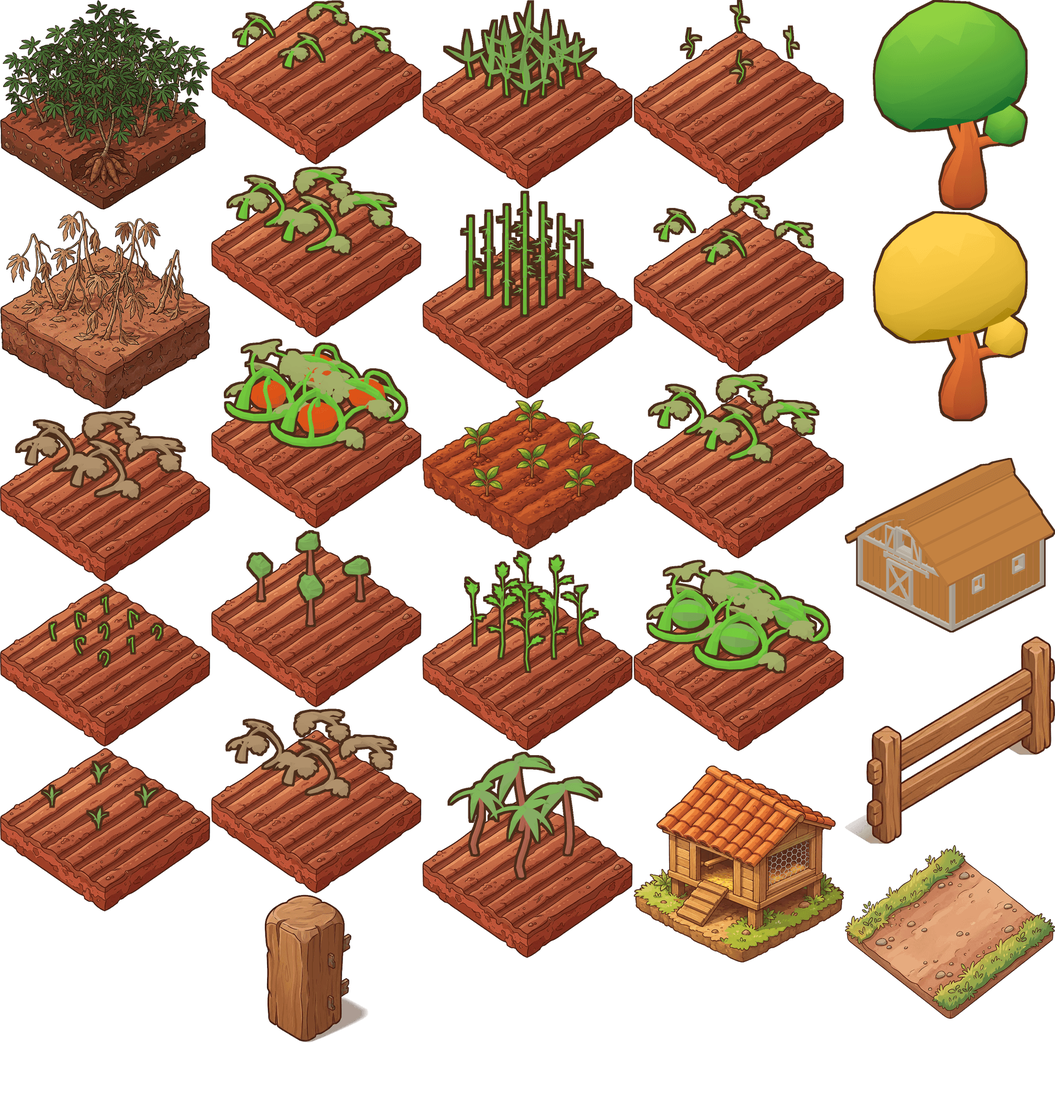
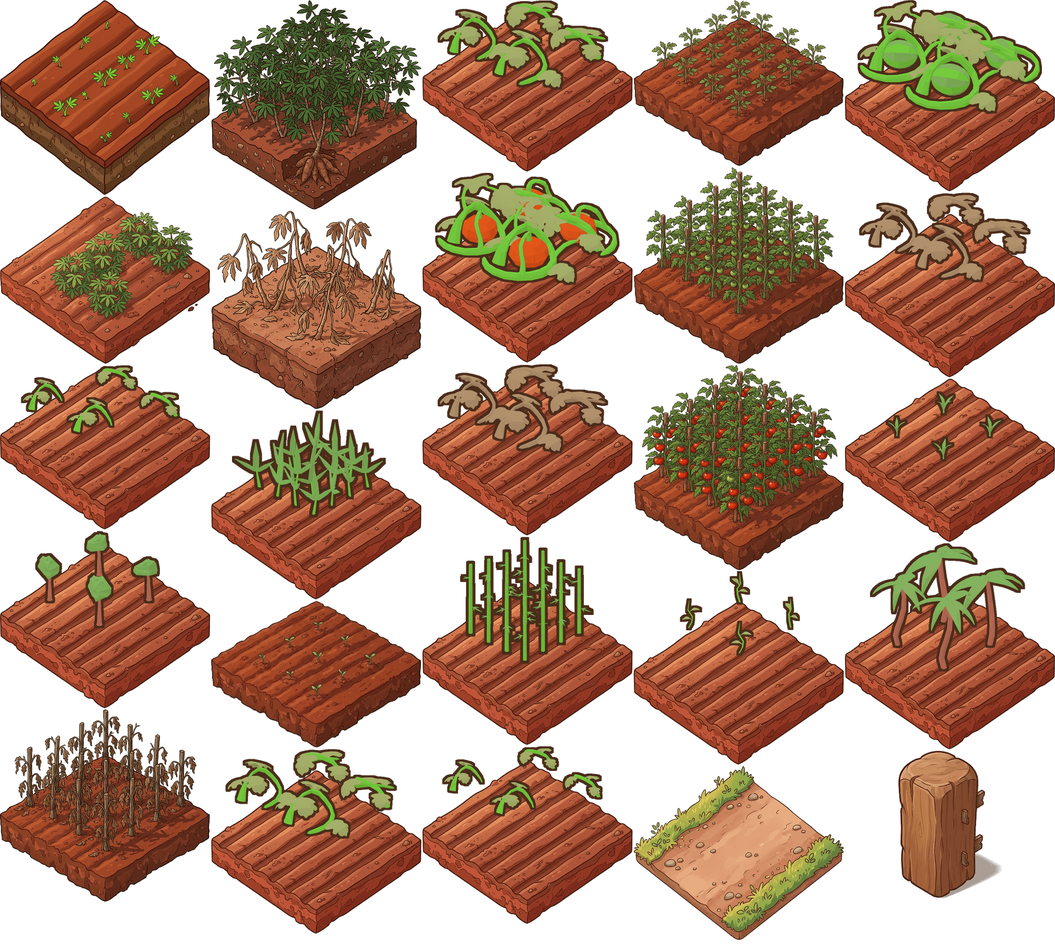
Arte do Gemini: tomate, árvores, decorações e 5 animais; loja só mostra itens com imagem
Claude-Session: https://claude.ai/code/session_01XN5yJUu1Ayq8GTviXXAyeh

diff --git a/src/ui/Loja.tsx b/src/ui/Loja.tsx
@@ -1,3 +1,4 @@
+import { temAnimal, temConstrucao, temCultura, useSprites } from '../game/sprites';
 import { useState } from 'react';
 import { atualizar } from '../store';
 import { ECONOMIA, lote } from '../domain/economia';
@@ -11,6 +12,7 @@ type Secao = 'construcoes' | 'animais' | 'decoracao' | 'terreno' | 'plantacoes';
 
 export function TelaLoja({ s, avisar, colocar }: { s: AppState; avisar: (t: string) => void; colocar: (c: PedidoColocacao) => void }) {
   const [secao, setSecao] = useState<Secao>('construcoes');
+  const sprites = useSprites();
   const nivel = nivelDeXp(s.jogador.xp).nivel;
   const travadaSessao = !!s.sessaoAtiva;
 
@@ -36,7 +38,7 @@ export function TelaLoja({ s, avisar, colocar }: { s: AppState; avisar: (t: stri
 
       {(secao === 'construcoes' || secao === 'decoracao') && (
         <div className="itens-loja">
-          {ECONOMIA.construcoes.filter((c) => !c.inicial && !c.exclusivo && (secao === 'decoracao' ? c.categoria === 'decoracao' : c.categoria !== 'decoracao')).map((c) => {
+          {ECONOMIA.construcoes.filter((c) => !c.inicial && !c.exclusivo && temConstrucao(sprites, c.id) && (secao === 'decoracao' ? c.categoria === 'decoracao' : c.categoria !== 'decoracao')).map((c) => {
             const travado = nivel < c.nivel;
             return (
               <div key={c.id} className={`item-loja ${travado ? 'travado' : ''}`}>
@@ -55,7 +57,7 @@ export function TelaLoja({ s, avisar, colocar }: { s: AppState; avisar: (t: stri
 
       {secao === 'animais' && (
         <div className="itens-loja">
-          {ECONOMIA.animais.map((a) => {
+          {ECONOMIA.animais.filter((a) => temAnimal(sprites, a.id) && (!a.requer || temConstrucao(sprites, a.requer))).map((a) => {
             const v = vagasAnimal(s, a.id);
             const travado = nivel < a.nivel;
             const qtd = s.fazenda.itens.filter((i) => i.ref === a.id).length;
@@ -79,7 +81,7 @@ export function TelaLoja({ s, avisar, colocar }: { s: AppState; avisar: (t: stri
       {secao === 'plantacoes' && (
         <div className="cartao">
           <p style={{ marginTop: 0 }}>Toque num canteiro vazio na fazenda para plantar. As culturas crescem só com <b>minutos de estudo</b>.</p>
-          {ECONOMIA.culturas.map((c) => (
+          {ECONOMIA.culturas.filter((c) => temCultura(sprites, c.id)).map((c) => (
             <div key={c.id} className="lista-item" style={{ opacity: nivel < c.nivel ? 0.5 : 1 }}>
               <span style={{ flex: 2 }}>{nivel < c.nivel && <Icone k="ui_cadeado" />} {c.nome}</span>
               <span style={{ fontSize: 13, color: 'var(--suave)' }}>{c.minutos} min · nível {c.nivel}</span>

diff --git a/src/game/sprites.ts b/src/game/sprites.ts
@@ -1,0 +1,30 @@
+import { useEffect, useState } from 'react';
+import type { AssetsRuntime } from './FarmScene';
+
+let assetsCache: Promise<AssetsRuntime> | null = null;
+export function carregarAssets(): Promise<AssetsRuntime> {
+  assetsCache ??= fetch('assets/assets.json')
+    .then((r) => (r.ok ? r.json() : null))
+    .then((j) => j ?? { atlas: null, frames: {}, faltando: [] })
+    .catch(() => ({ atlas: null, frames: {}, faltando: [] }));
+  return assetsCache;
+}
+
+/** Sprites que têm imagem de verdade. null = ainda carregando ou sem atlas (aí não filtra nada). */
+export function useSprites(): Set<string> | null {
+  const [s, setS] = useState<Set<string> | null>(null);
+  useEffect(() => {
+    let vivo = true;
+    carregarAssets().then((a) => { if (vivo && a.atlas) setS(new Set(Object.keys(a.frames))); });
+    return () => { vivo = false; };
+  }, []);
+  return s;
+}
+
+const ESTAGIOS = ['stage1', 'stage2', 'stage3', 'stage4'];
+const CHAVE_CONSTRUCAO: Record<string, string> = { cerca: 'bld_cerca_a', casa: 'bld_casa_lv1' };
+
+/** Só aparece na loja o que já tem imagem: nada de caixote no lugar do item. */
+export const temConstrucao = (sp: Set<string> | null, id: string) => !sp || sp.has(CHAVE_CONSTRUCAO[id] ?? `bld_${id}`);
+export const temAnimal = (sp: Set<string> | null, id: string) => !sp || sp.has(`animal_${id}_idle_01`);
+export const temCultura = (sp: Set<string> | null, id: string) => !sp || ESTAGIOS.every((e) => sp.has(`crop_${id}_${e}`));

diff --git a/src/ui/Fazenda.tsx b/src/ui/Fazenda.tsx
@@ -1,3 +1,4 @@
+import { temCultura, useSprites } from '../game/sprites';
 import { useEffect, useMemo, useRef, useState } from 'react';
 import { FarmView, type FarmViewApi } from '../game/FarmView';
 import type { Colocacao } from '../game/FarmScene';
@@ -57,6 +58,7 @@ function useAltura<T extends HTMLElement>(): [(el: T | null) => void, number] {
 }
 
 export function TelaFazenda({ s, avisar, colocacao, setColocacao, irPara, ervas = 0, pre = null }: Props) {
+  const sprites = useSprites();
   const nivel = nivelDeXp(s.jogador.xp);
   const ofensiva = calcularOfensiva(s);
   const [canteiroSel, setCanteiroSel] = useState<ItemFazenda | null>(null);
@@ -174,7 +176,7 @@ export function TelaFazenda({ s, avisar, colocacao, setColocacao, irPara, ervas 
             <InfoCultura item={canteiroSel} />
           ) : (
             <div className="itens-loja">
-              {ECONOMIA.culturas.map((c) => {
+              {ECONOMIA.culturas.filter((c) => temCultura(sprites, c.id)).map((c) => {
                 const travado = nivel.nivel < c.nivel;
                 return (
                   <button key={c.id} className={`item-loja ${travado ? 'travado' : ''}`} style={{ border: 0, textAlign: 'left' }}

diff --git a/src/game/FarmView.tsx b/src/game/FarmView.tsx
@@ -1,7 +1,8 @@
 import { forwardRef, useEffect, useImperativeHandle, useRef, useState } from 'react';
 import Phaser from 'phaser';
-import { FarmScene, type AssetsRuntime, type CallbacksCena, type Colocacao } from './FarmScene';
+import { FarmScene, type CallbacksCena, type Colocacao } from './FarmScene';
 import type { AppState } from '../domain/tipos';
+import { carregarAssets } from './sprites';
 
 interface Props {
   estado: AppState;
@@ -17,14 +18,6 @@ export interface FarmViewApi {
   efeitoColheita: (x: number, y: number, texto: string) => void;
 }
 
-let assetsCache: Promise<AssetsRuntime> | null = null;
-function carregarAssets(): Promise<AssetsRuntime> {
-  assetsCache ??= fetch('assets/assets.json')
-    .then((r) => (r.ok ? r.json() : null))
-    .then((j) => j ?? { atlas: null, frames: {}, faltando: [] })
-    .catch(() => ({ atlas: null, frames: {}, faltando: [] }));
-  return assetsCache;
-}
 
 export type Periodo = 'amanhecer' | 'dia' | 'entardecer' | 'noite';
 export function periodoDoDia(d = new Date()): Periodo {
